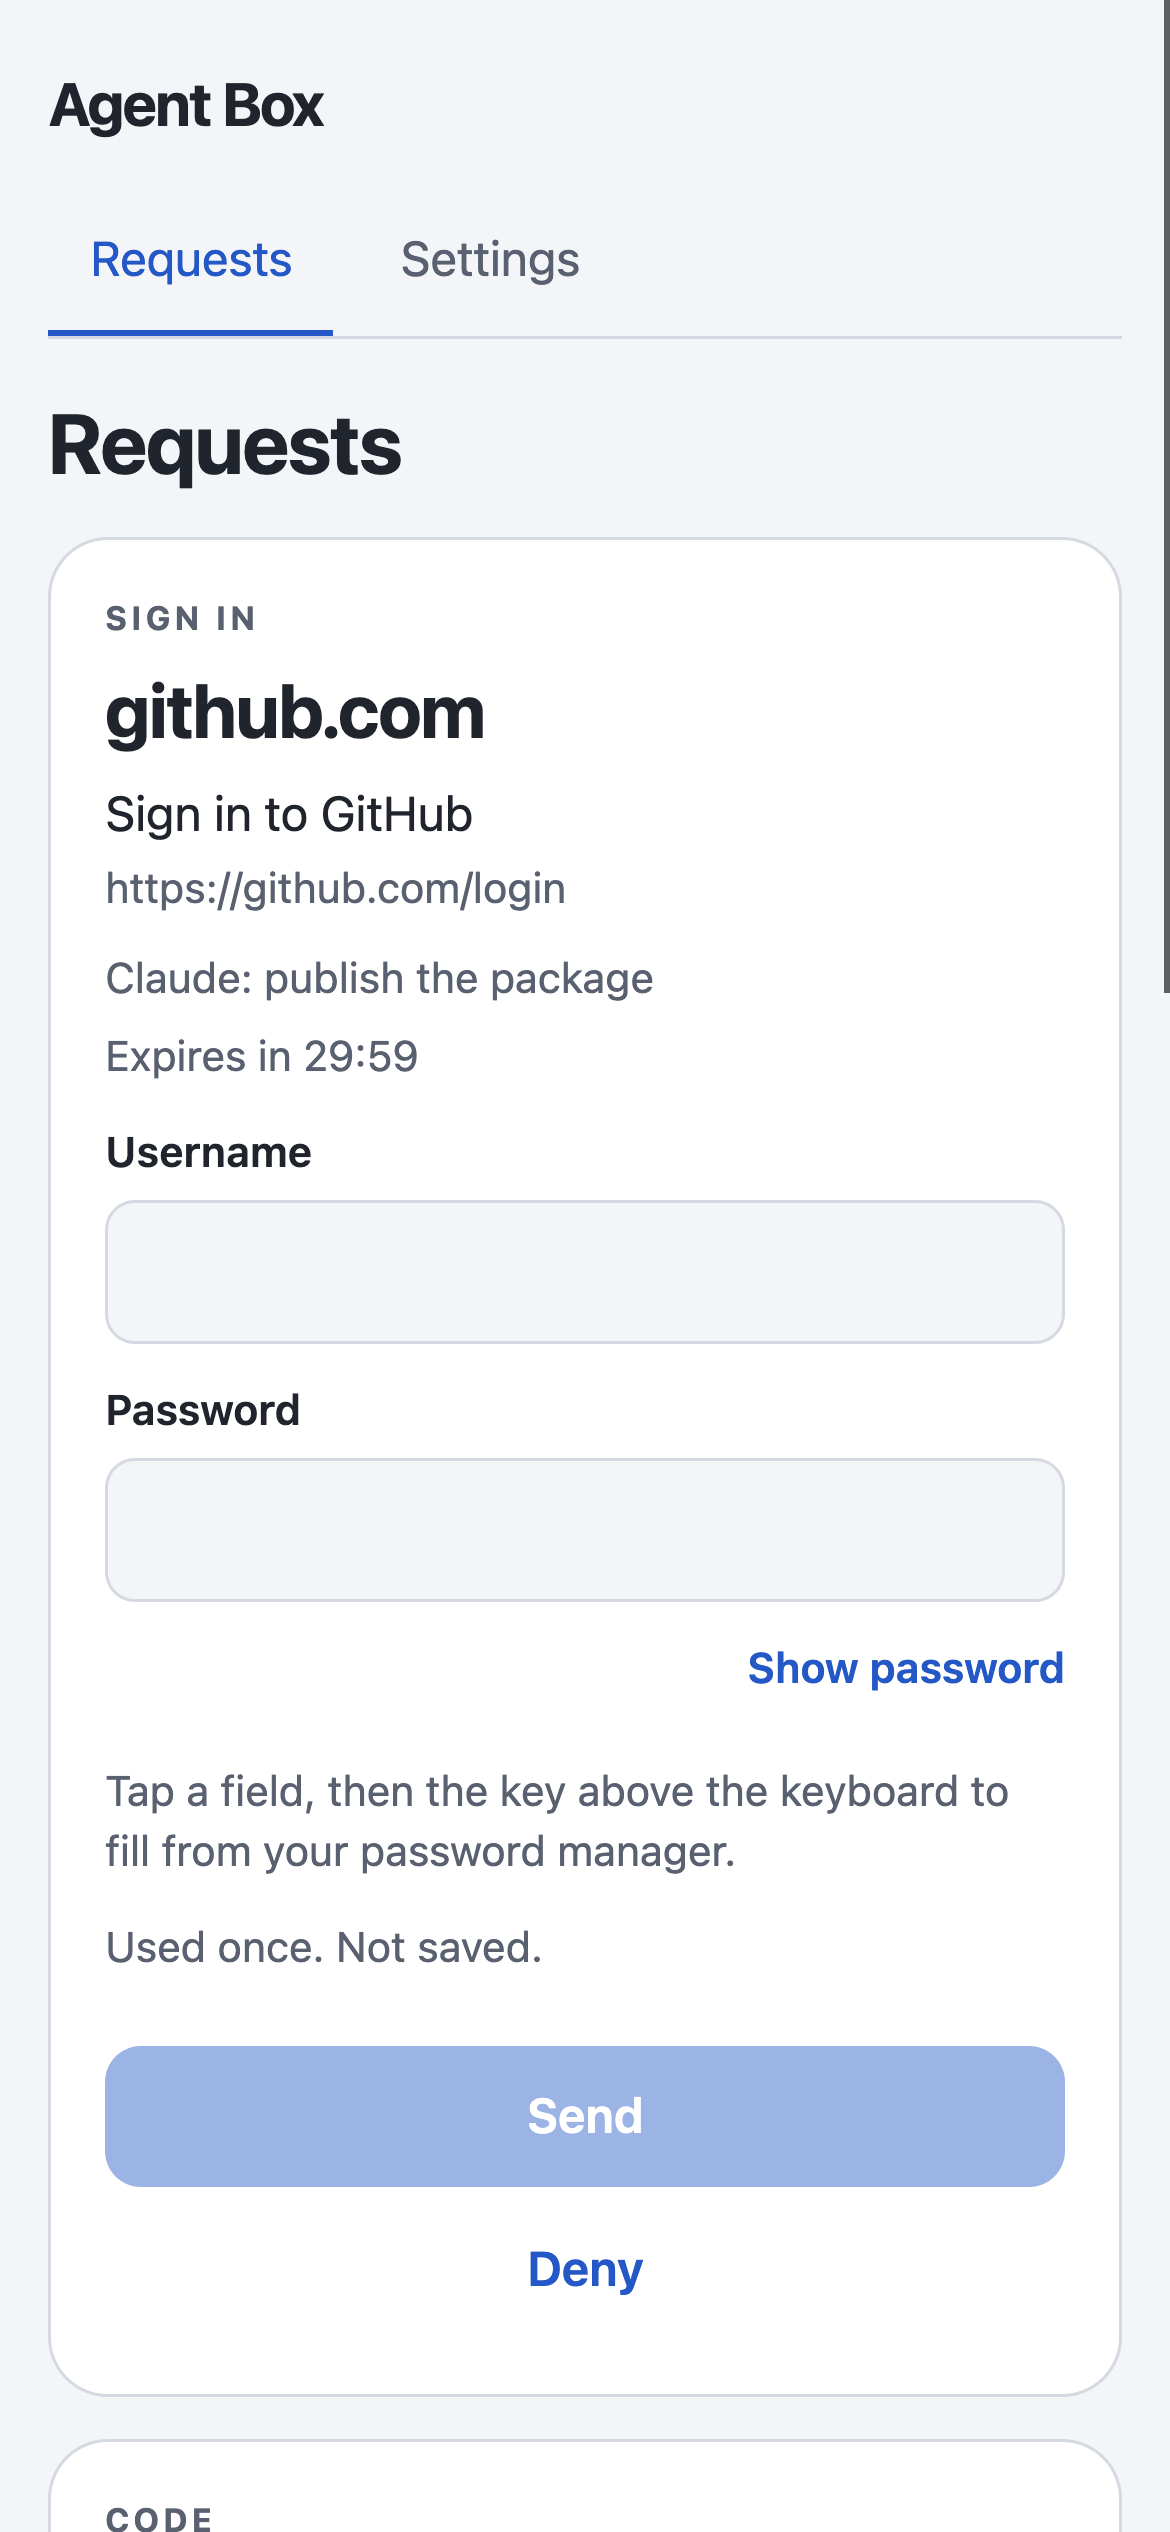
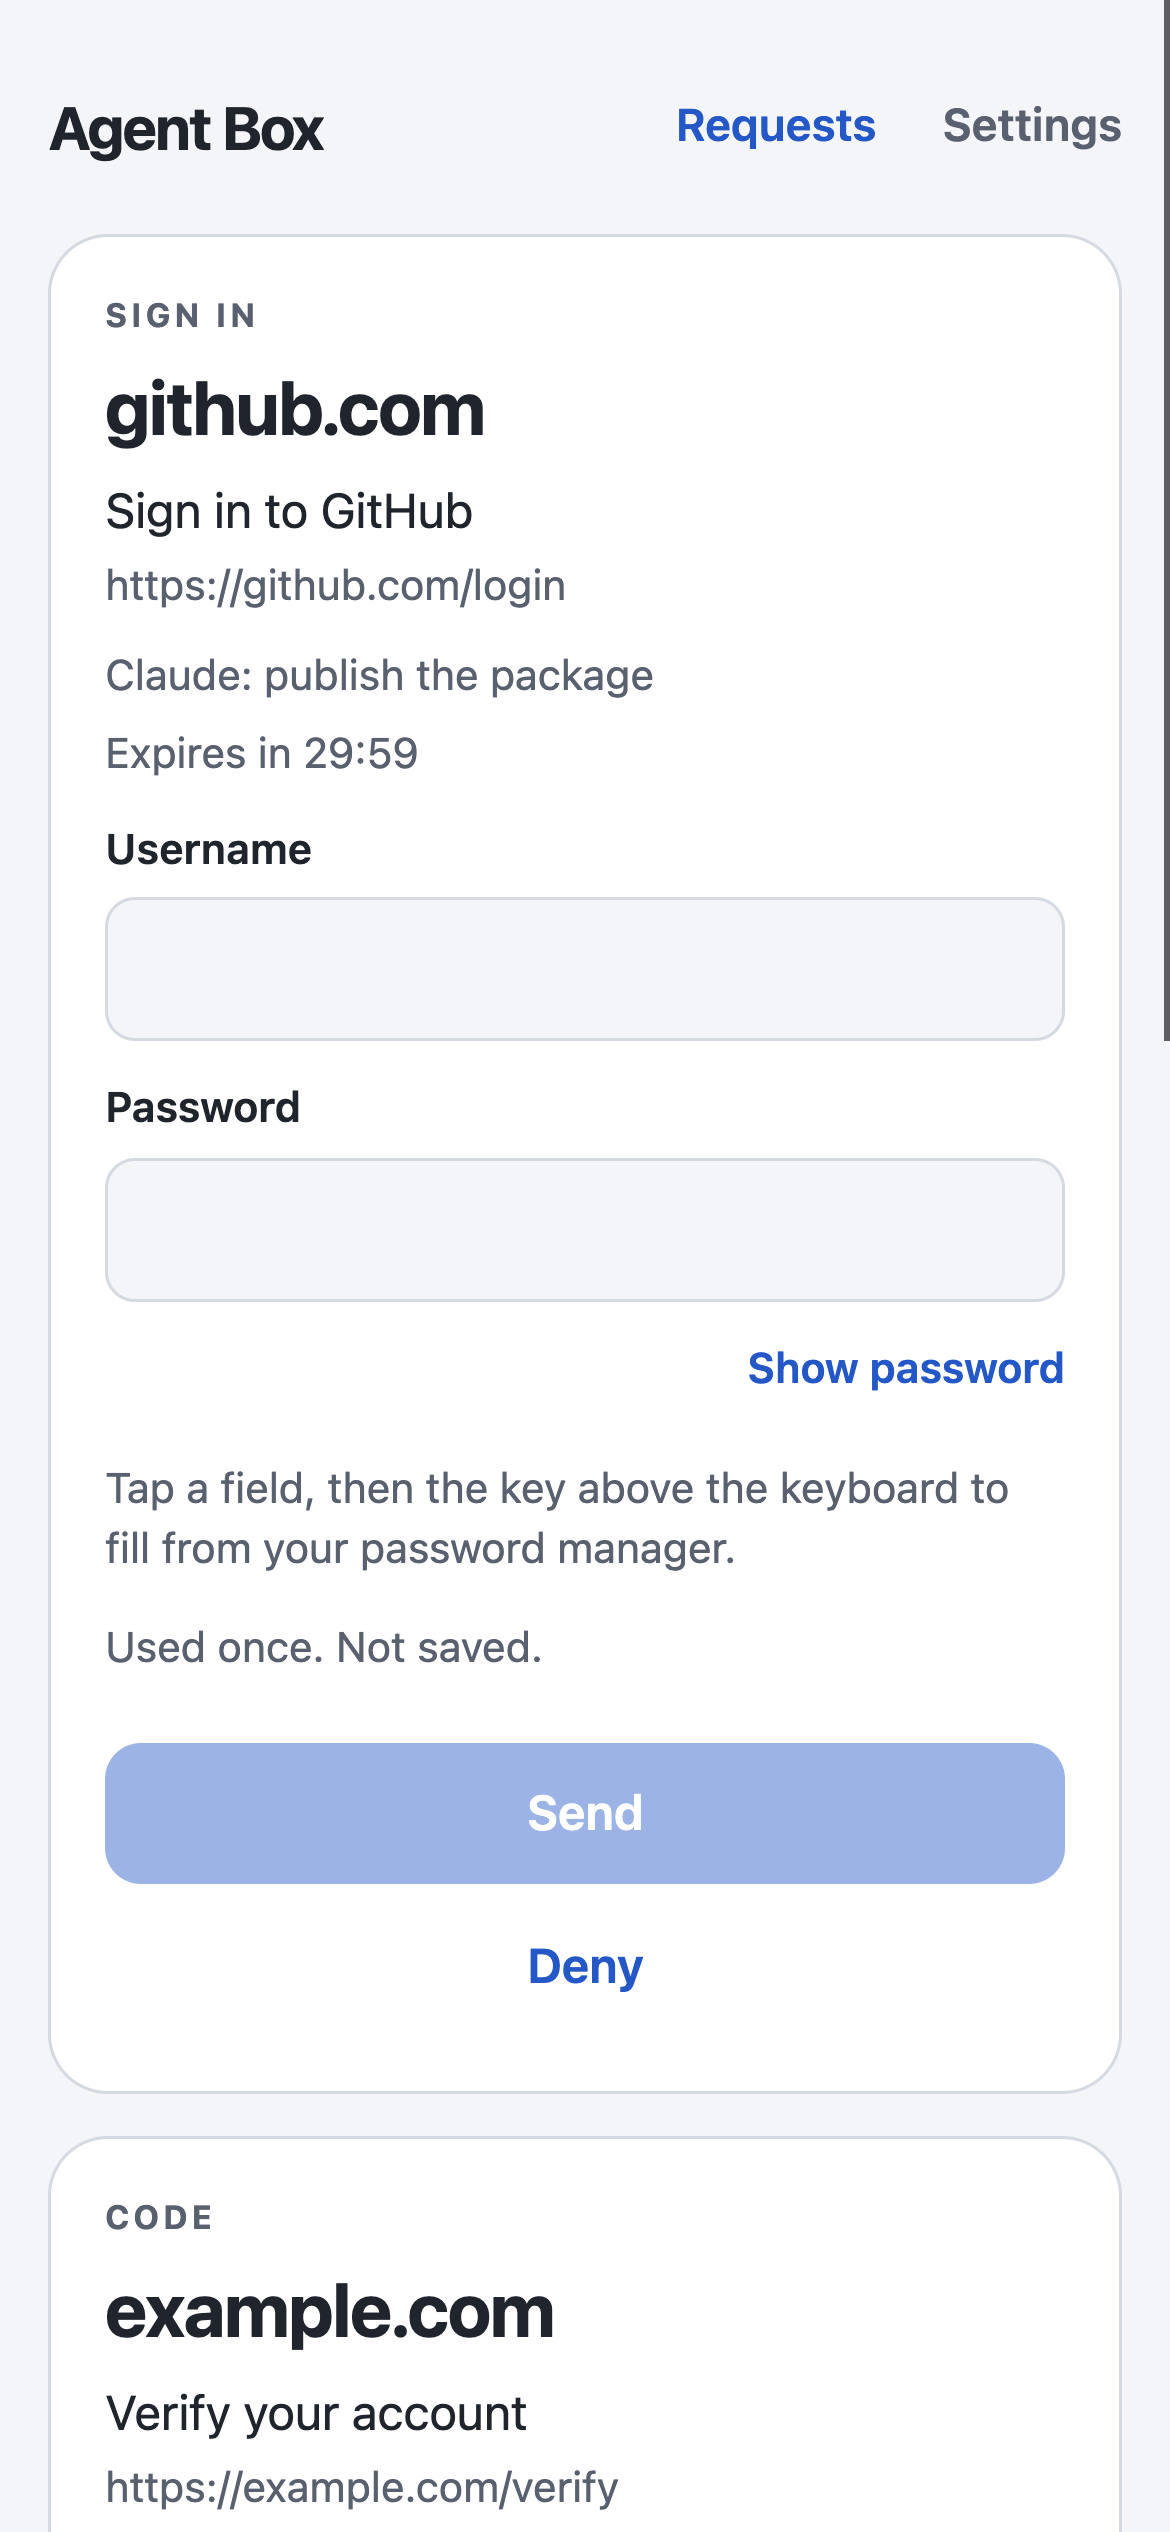
fix(app): put the form higher, and wire the app check into CI
The header was three rows, which pushed Send to the bottom of an iPhone
screen. It is one row now.

Send a test shows only with notifications on. A push subscription made
for another broker key is replaced, because it can't receive this
broker's pushes. The check saves captures only with APP_CHECK_SHOTS=1,
so a test run leaves the tree clean. CI runs the app check.

diff --git a/app/app.js b/app/app.js
@@ -96,7 +96,13 @@ async function notifications(enable, message) {
       if (!reg) throw new Error();
       const key = state.push.publicKey.replace(/-/g, '+').replace(/_/g, '/');
       const bytes = Uint8Array.from(atob(key), c => c.charCodeAt(0));
-      const subscription = await reg.pushManager.getSubscription() || await reg.pushManager.subscribe({ userVisibleOnly: true, applicationServerKey: bytes });
+      let subscription = await reg.pushManager.getSubscription();
+      // A subscription made for another broker's key can't receive this broker's pushes.
+      const madeFor = new Uint8Array(subscription?.options.applicationServerKey || []);
+      if (subscription && !(madeFor.length === bytes.length && madeFor.every((byte, i) => byte === bytes[i]))) {
+        await subscription.unsubscribe(); subscription = null;
+      }
+      subscription ||= await reg.pushManager.subscribe({ userVisibleOnly: true, applicationServerKey: bytes });
       await api('push/subscribe', { subscription: subscription.toJSON() });
     } else {
       await api('push/unsubscribe', {});
@@ -117,9 +123,9 @@ function pushPanel(settings = false) {
     toggle.setAttribute('role', 'switch'); toggle.setAttribute('aria-checked', String(state.push.subscribed));
     toggle.addEventListener('click', () => notifications(!state.push.subscribed, message)); box.append(toggle);
   }
-  if (settings) box.append(button('Send a test', 'quiet', async () => {
+  if (settings && state.push.subscribed) box.append(button('Send a test', 'quiet', async () => {
     try { await api('push/test', {}); message.textContent = 'Test sent. Check your notifications.'; }
-    catch (error) { message.textContent = failure(error); }
+    catch (error) { message.textContent = error.code === 'not_subscribed' ? 'Turn on notifications first.' : failure(error); }
   }));
   return box;
 }
@@ -209,7 +215,7 @@ function render() {
     main.append(info); view = next; return;
   }
   if (view !== next) {
-    main.replaceChildren(el('h1', 'Requests'));
+    main.replaceChildren(el('h1', 'Requests', 'sr-only'));
     const banner = el('div'); banner.id = 'push-banner';
     const list = el('section'); list.id = 'cards'; list.setAttribute('aria-label', 'Pending requests');
     const history = el('section'); history.id = 'history'; main.append(list, banner, history); cards = new Map();

diff --git a/app/app.css b/app/app.css
@@ -3,11 +3,12 @@
 * { box-sizing:border-box; }
 body { margin:0; background:var(--bg); color:var(--text); font:16px/1.45 -apple-system,BlinkMacSystemFont,"Segoe UI",sans-serif; }
 .shell { max-width:480px; margin:auto; padding:max(20px,env(safe-area-inset-top)) max(16px,env(safe-area-inset-right)) max(28px,env(safe-area-inset-bottom)) max(16px,env(safe-area-inset-left)); }
-header { margin-bottom:18px; }
+header { display:flex; align-items:center; justify-content:space-between; gap:12px; margin-bottom:6px; }
 .brand { display:block; font-size:20px; font-weight:700; color:var(--text); text-decoration:none; letter-spacing:-.5px; }
-nav { display:flex; gap:8px; margin-top:14px; border-bottom:1px solid var(--line); }
-nav a { padding:12px 14px; text-decoration:none; color:var(--muted); min-height:48px; border-bottom:2px solid transparent; }
-nav a[aria-current=page] { color:var(--accent); border-bottom-color:var(--accent); }
+nav { display:flex; gap:2px; margin-right:-10px; }
+nav a { display:flex; align-items:center; padding:0 10px; text-decoration:none; color:var(--muted); min-height:44px; font-size:15px; font-weight:600; }
+nav a[aria-current=page] { color:var(--accent); }
+.sr-only { position:absolute; width:1px; height:1px; overflow:hidden; clip-path:inset(50%); white-space:nowrap; }
 h1 { font-size:28px; line-height:1.2; letter-spacing:-.7px; margin:0 0 8px; }
 h2 { font-size:25px; line-height:1.2; letter-spacing:-.5px; margin:8px 0; overflow-wrap:anywhere; }
 h3 { font-size:17px; margin:0 0 8px; }
